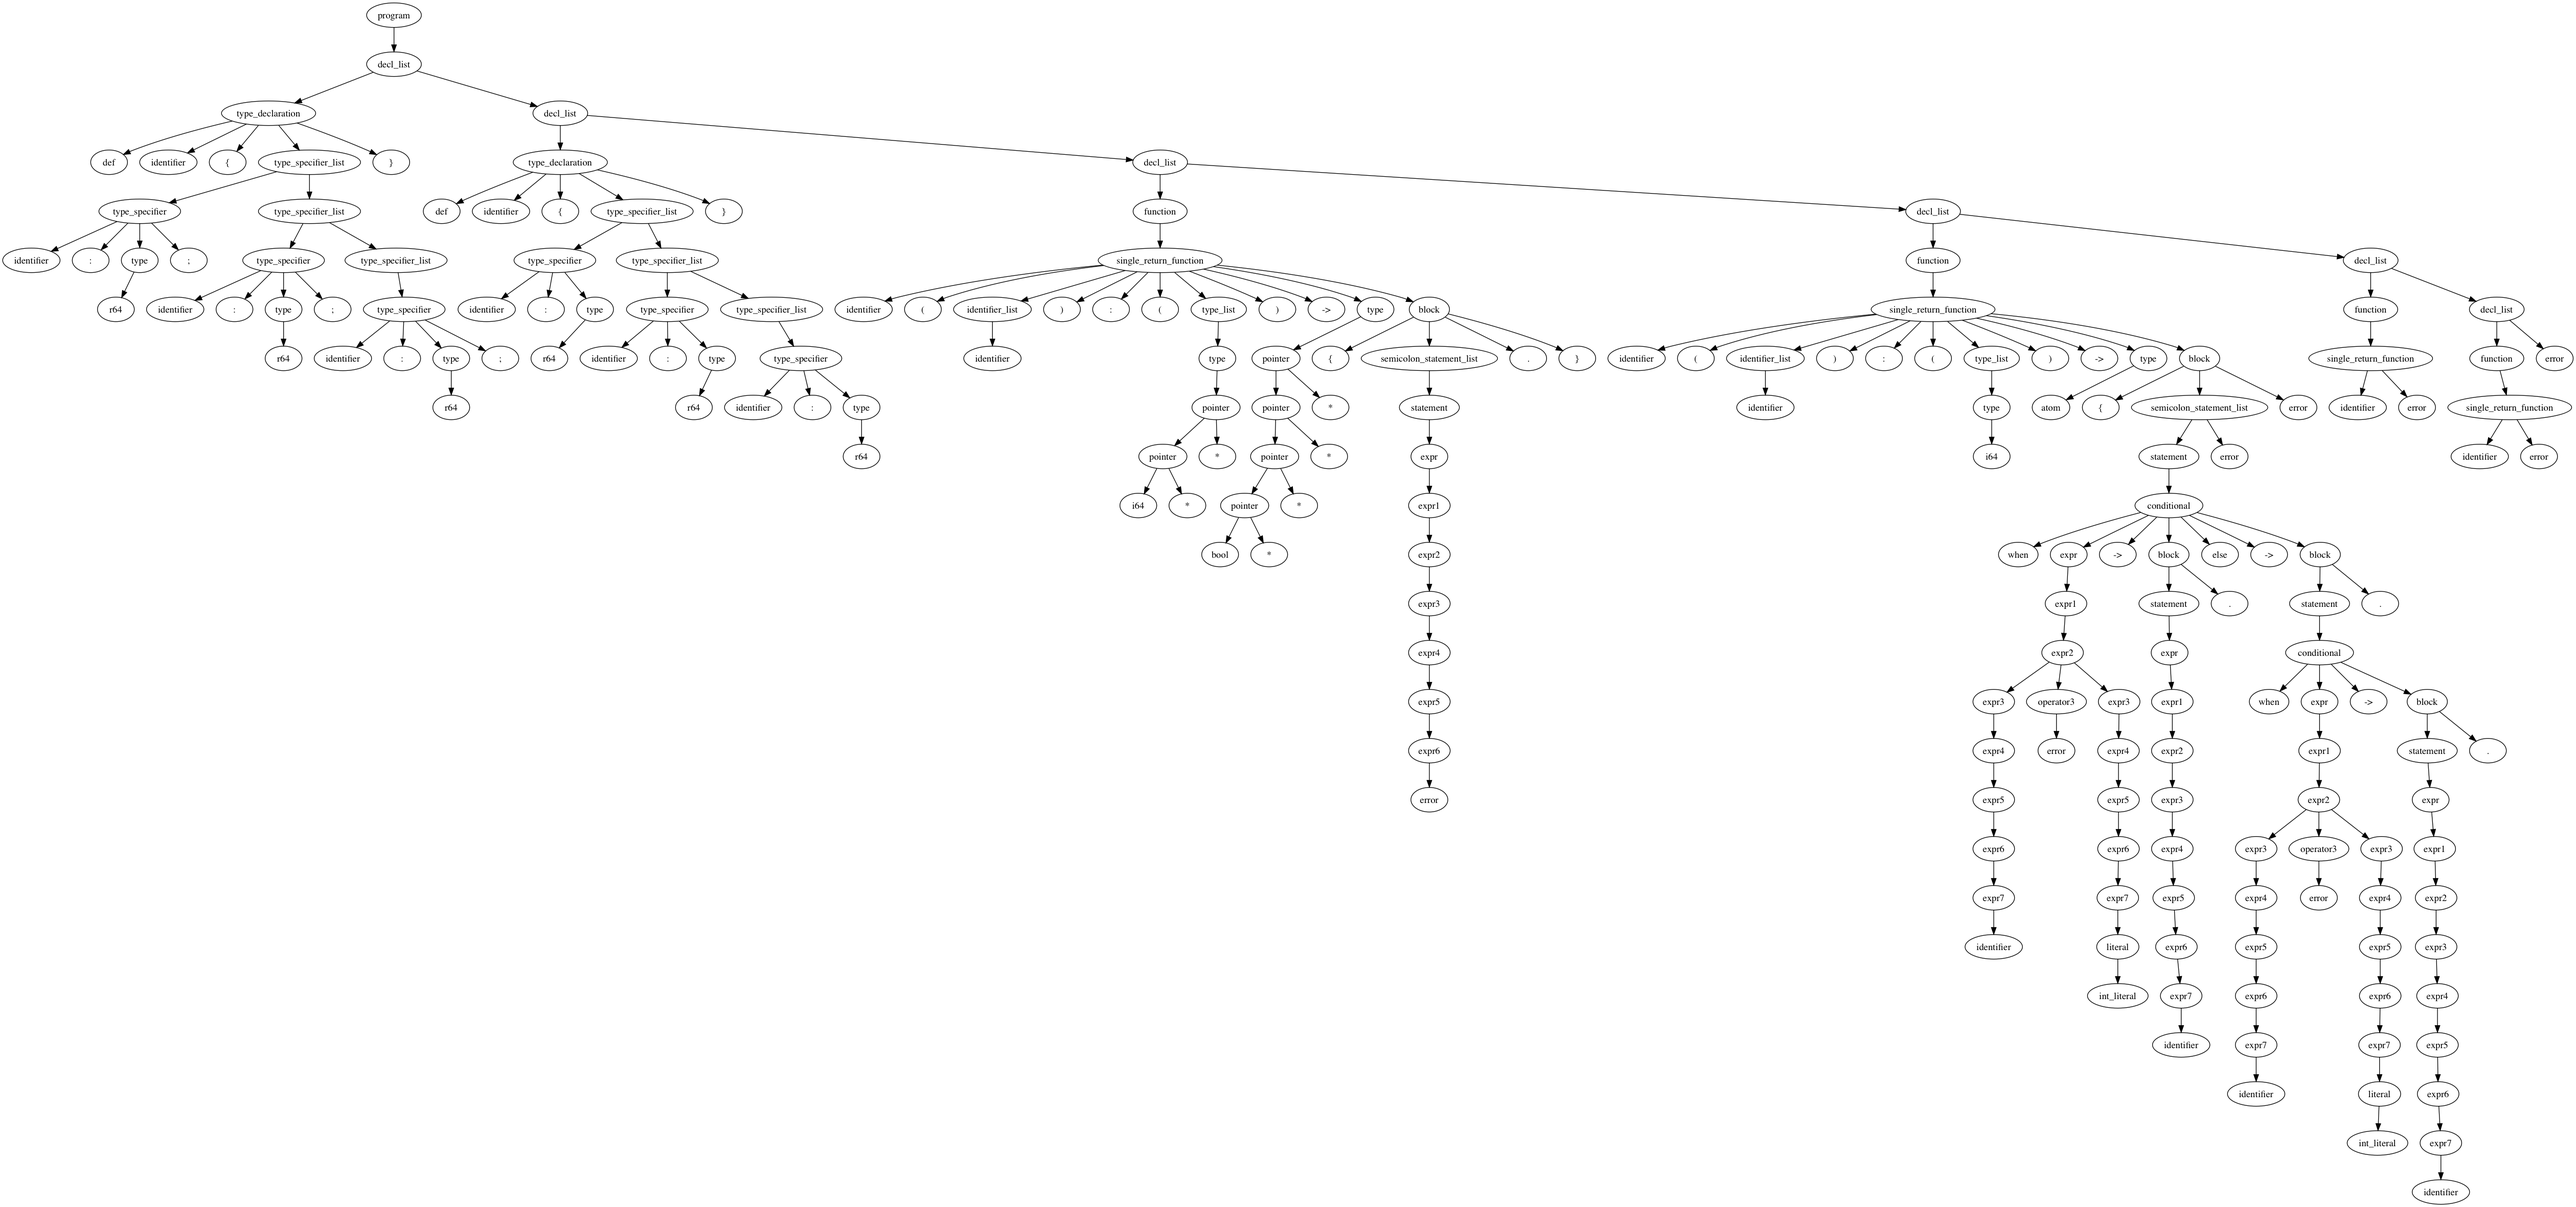
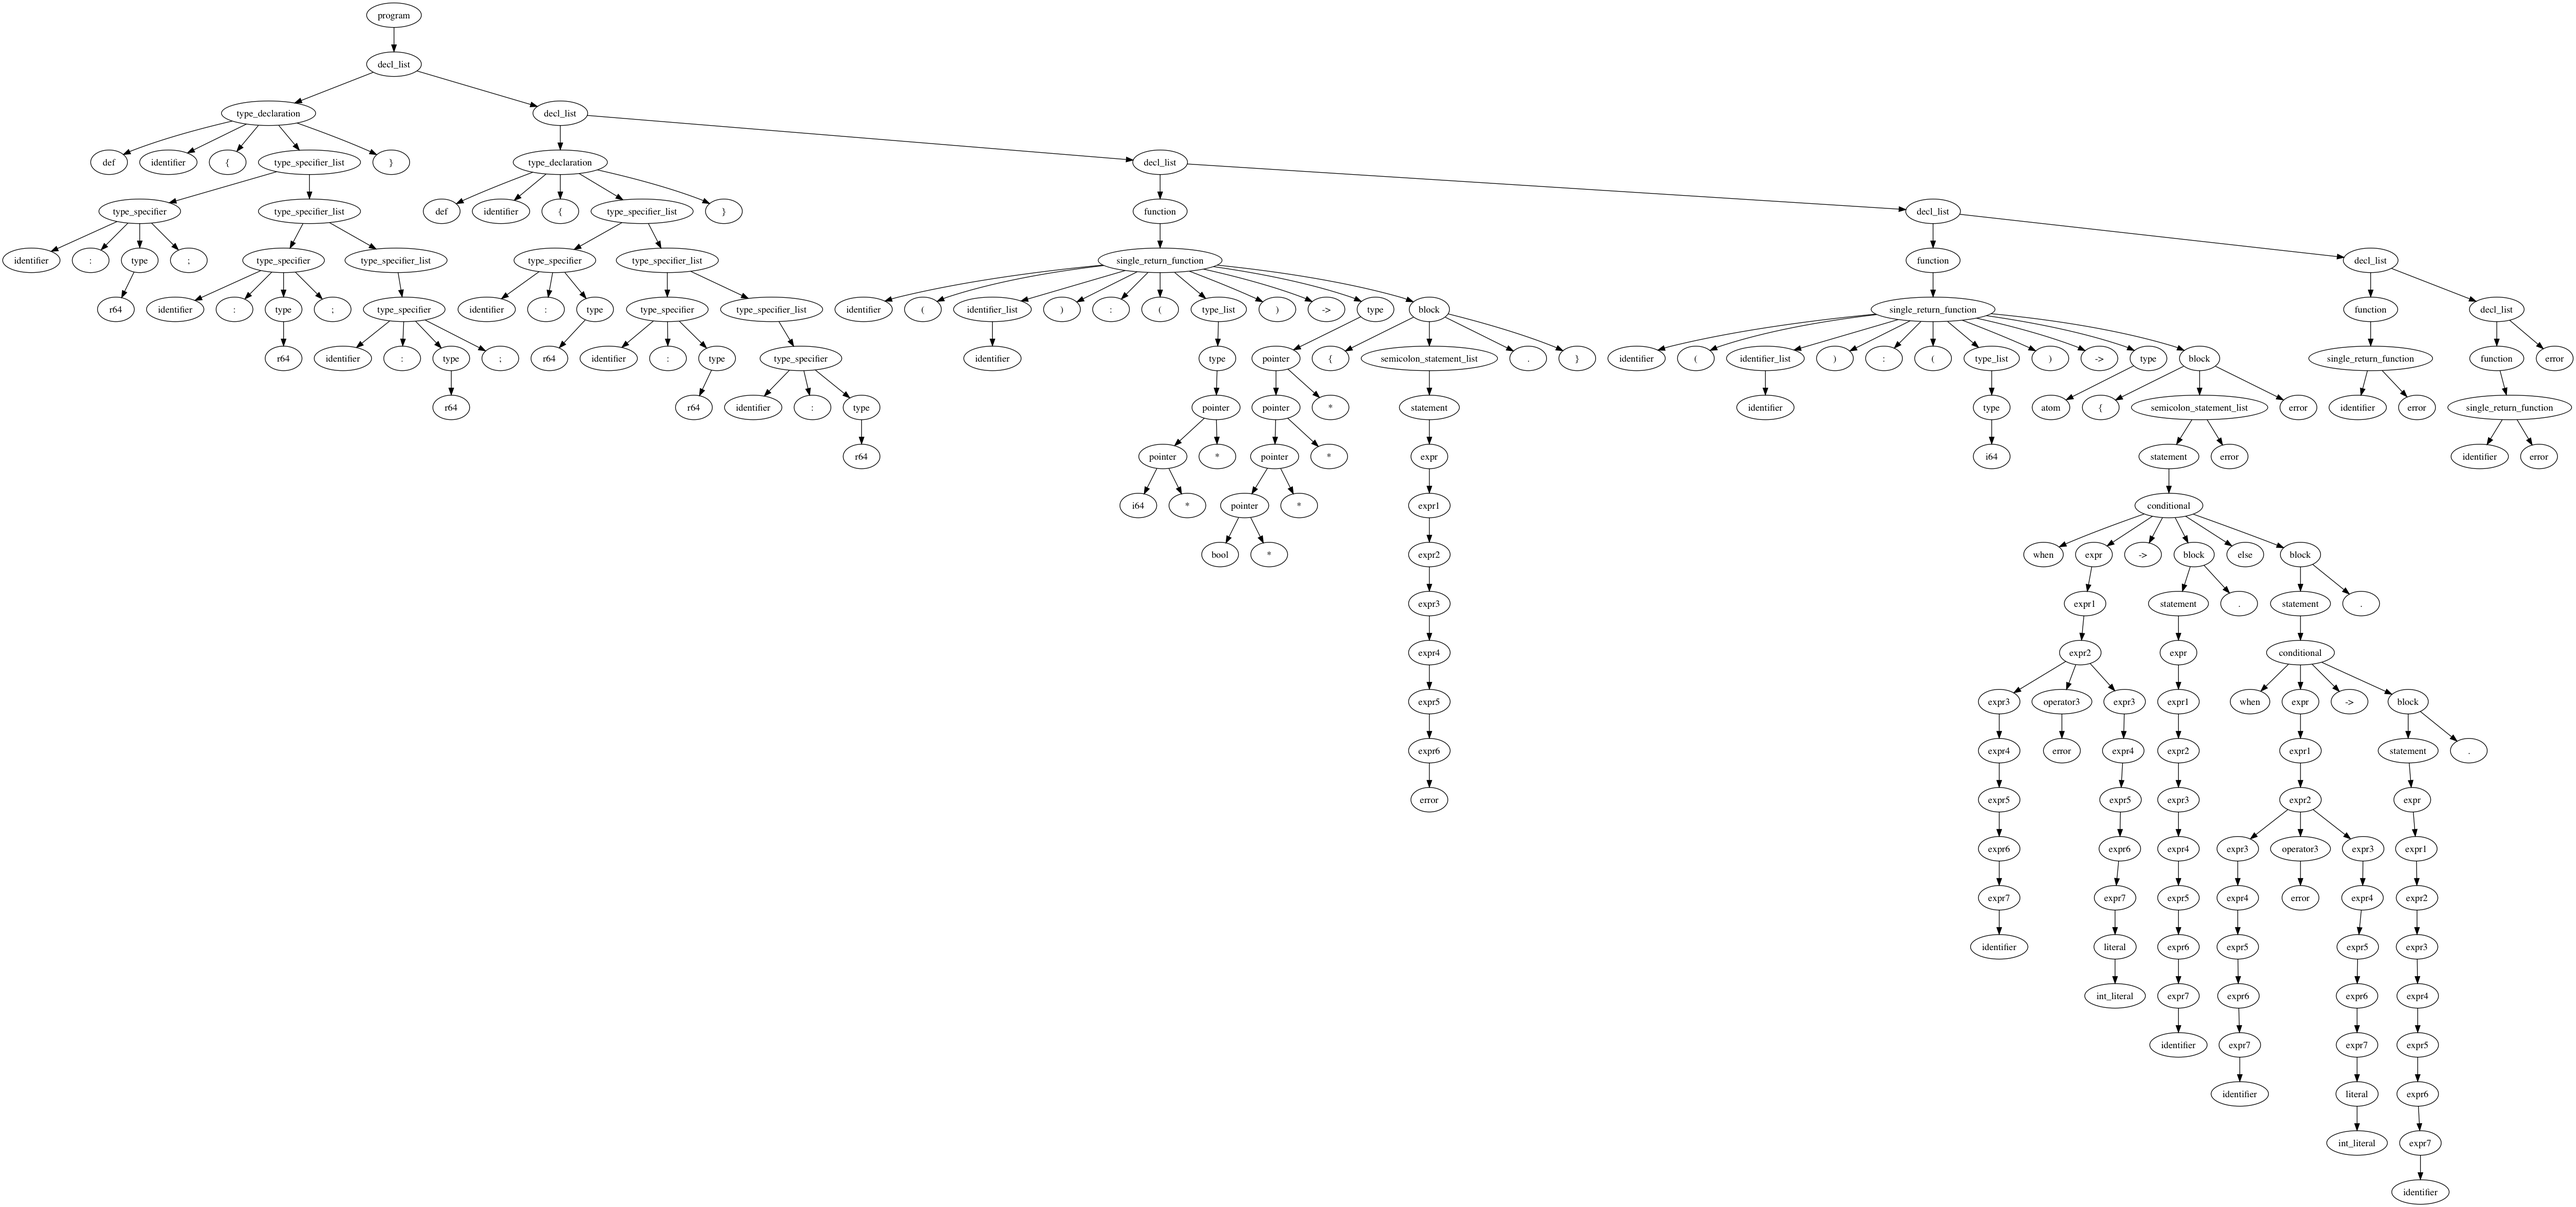
idk what this is

diff --git a/parser.c b/parser.c
@@ -174,7 +174,7 @@ ast_node *parse_expr5(parser *parse)
     case '&':
     case '<':
 	new->production[0] = parse_unary_operator(parse);
-	next_tok(parse);	
+	next_tok(parse);
 	new->production[1] = parse_expr5(parse);
 	break;
     default:
@@ -469,7 +469,11 @@ ast_node *parse_conditional(parser *parse)
 	    {		
 		new->production[i++] = make_terminal(parse);
 		next_tok(parse);
-		if(parse->curr_tok->type == token_arrow || parse->curr_tok->type == token_when)
+		if(parse->curr_tok->type == token_when)
+		{
+		    new->production[i++] = parse_block(parse);
+		}
+		else if(parse->curr_tok->type == token_arrow)
 		{
 		    new->production[i++] = make_terminal(parse);
 		    next_tok(parse);
@@ -612,10 +616,6 @@ ast_node *parse_block(parser *parse)
 	if(parse->curr_tok->type == '.')
 	{
 	    new->production[i++] = make_terminal(parse);
-	}
-	else
-	{
-	    new->production[i] = parser_error(parse, ". expected");
 	}
     }
     return(new);

diff --git a/parser.h b/parser.h
@@ -7,7 +7,6 @@
 #include <malloc.h>
 #endif
 
-//-a.b + c * d
 /*
   program                  = decl_list
   decl_list                = function | type_declaration | function decl_list | type_declaration decl_list
@@ -23,7 +22,7 @@
   type                     = pointer | basic_type
   pointer                  = type *
   basic_type               = r32 | r64 | i8 | i16 | i32 | i64 | u8 | u16 | u32 | u64 | string | bool | complex | identifier | atom
-  block                    = statement . | { semicolon_statement_list . }
+  block                    = statement . | { semicolon_statement_list . } | statement
   semicolon_statement_list = statement | statement ; semicolon_statement_list
   comma_statement_list     = statement | statement , comma_statement_list
   prn_comma_statement_list = ( comma_statement_list )
